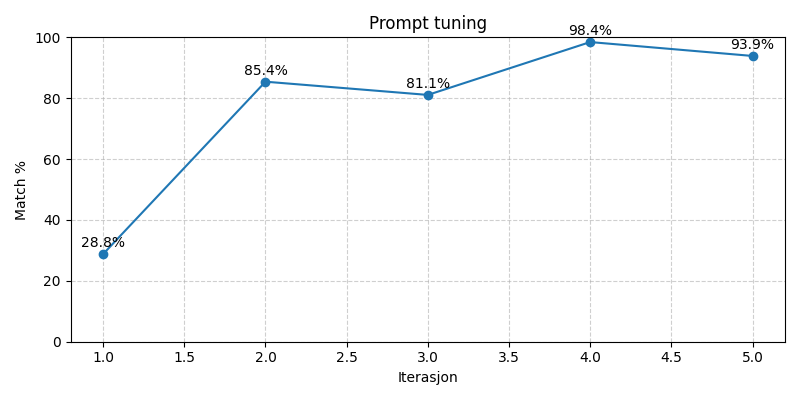
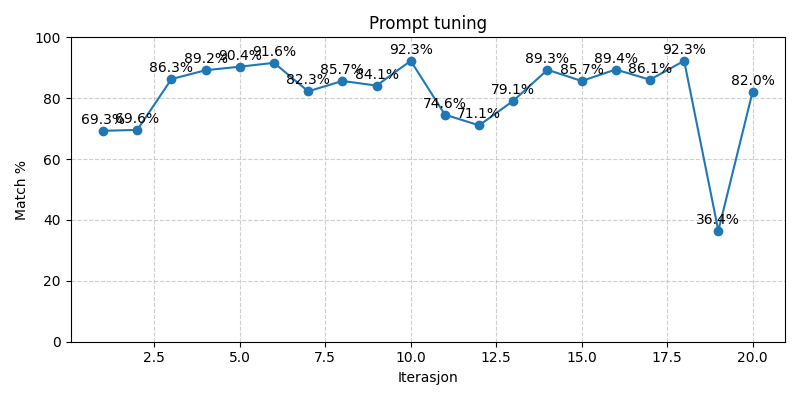
prompt tuning improvement

diff --git a/web/oppgavetester.html b/web/oppgavetester.html
@@ -37,9 +37,8 @@
   <div id="task_text" class="mathjax-process"></div>
 
   <script>
-    const taskHTML = "<p><em>Du skal svare på denne oppgaven i Inspera. Du skal ikke legge ved utregninger på papir.</em></p><p>La $$A = \\begin{bmatrix} 1 & 2 & 0 \\\\ 3 & 8 & 0 \\\\ 0 & 0 & 1 \\end{bmatrix}.$$</p><p>Hva er determinanten til matrisen <em>A</em>?</p><p>$$\\det(A) = \\boxed{\\phantom{0}}$$</p><p>Avrund svaret til nærmeste heltall.</p>";
-
-    document.getElementById("task_text").innerHTML = taskHTML;
+    const taskHTML = "<em>Du skal svare på denne oppgaven i Inspera. Du skal ikke legge ved utregninger på papir.</em><p>La <em>A</em> = $$ \begin{bmatrix} 1 & 2 & 0 \\ 3 & 8 & 0 \\ 0 & 0 & 1 \end{bmatrix} $$.</p><p>Hva er determinanten til matrisen <em>A</em>?</p><p>$$\det(A) = \boxed{\phantom{2}}$$</p><p>Avrund svaret til nærmeste heltall.</p>";
+document.getElementById("task_text").innerHTML = taskHTML;
 
     if (window.MathJax?.typesetPromise) {
       MathJax.typesetClear();

diff --git a/scripts/prompt_tuning_plot.py b/scripts/prompt_tuning_plot.py
@@ -66,8 +66,8 @@ def tune_prompt(initial_prompt: str, input_text: str, target: str, iterations: i
         matches.append(match)
         print(f"Match: {match:.2f}%\nOutput: {out}\n")
 
-        if match >= 90:
-            print("Oppnådde over 90% match, stopper tidlig.")
+        if match >= 98:
+            print("Oppnådde over 98% match, stopper tidlig.")
             prompts.append(current_prompt)
             break
 
@@ -114,7 +114,37 @@ def plot_results(matches, out_file):
 
 def main():
     parser = argparse.ArgumentParser(description="Kjør prompt tuning og lagre plott")
-    parser.add_argument("--prompt", default="Formatter oppgaven til html med mathjax.")
+    parser.add_argument("--prompt", default=(
+        "Format this exam task as a valid HTML string for use in a JavaScript variable. "
+            "Here are a couple rules to follow: "
+            "- Use <p>...</p> for all text paragraphs. "
+            "- Use <h3>a)</h3>, <h3>b)</h3> etc for subtask labels if present. "
+            "- Use MathJax-compatible LaTeX. "
+            "- Wrap display math in $$...$$. "
+            "- Wrap inline math in $...$. "
+            "- Use a single backslash for LaTeX commands (e.g., \\frac, \\sqrt). "
+            "- Do not use \\( ... \\) or \\[ ... \\]. "
+            "- Do not double-escape backslashes. "
+            "- Do not explain, summarize, or add anything outside the HTML. "
+            "- Output must be usable directly inside const oppgaveTekst = `<the content here>`. "
+            "- Do not add any other text or explanation. "
+            "- Do not add any HTML tags outside the <p>...</p> and <h3>...</h3> tags. "
+            "- Make sure that e.g. infty, omega, theta, etc. are properly formatted. "
+            "- Do not write the result as you would write in a programming box, but as you would write it as clean text. "
+            "- Do not include ```html or const oppgaveTekst = `` or similar. "
+            "- You are allowed to make som assumptions about OCR artifacts in the text, such as \\sqrt{\\sqrt{\\sqrt most likely being an error for a single square root. "
+            "- Be sure to include spaces and newlines where appropriate, the formatting is supposed to look proper.  "
+
+            "For multiple choice tasks with text or image alternatives, also follow these rules: "
+            "- Present the alternatives as an ordered list using <ol><li>. "
+            "- Prefix each alternative with the corresponding letter label inside <b> tags (A, B, C, ...). "
+            "- If an alternative contains an image, use <img src='PATH' alt=''> within the <li> element. "
+            "- Keep the statement of the task itself outside the list in normal <p> tags. "
+
+            "For regular tasks that require proving, calculating or explaining, also follow these rules: "
+            "- Keep paragraphs short and use multiple <p> elements rather than a single long block. "
+            "- Introduce each subtask with its label using <h3>a)</h3>, <h3>b)</h3> and so on. "
+    ))
     parser.add_argument("--input_text", default="Du skal svare på denne oppgaven i Inspera. Du skal ikke legge ved utregninger på papir. La A = [ 1  2  0  3  8  0  0  0  1 ] Hva er determinanten til matrisen A? det(A) = ______ Avrund svaret til nærmeste heltall.")
     parser.add_argument(
         "--target_text",
